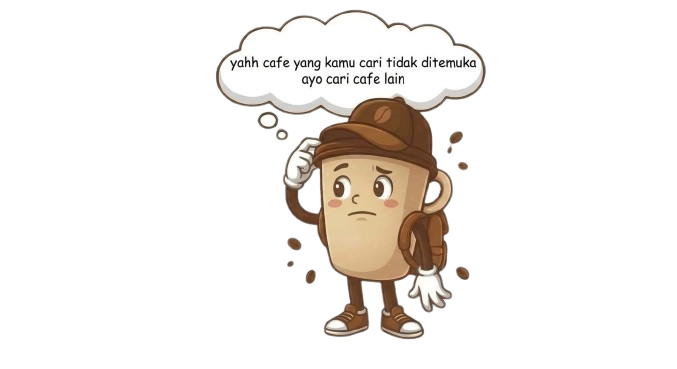
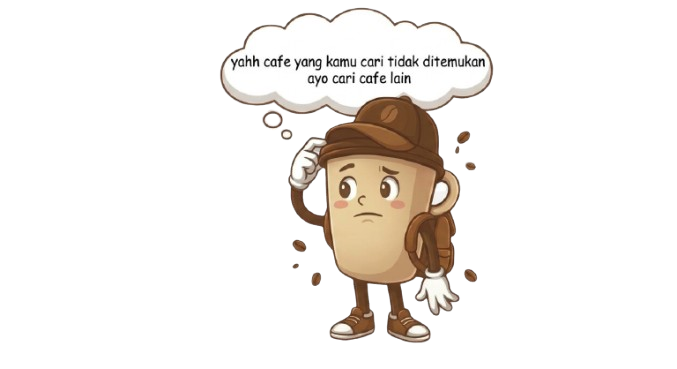
update

Changed region(s): [[0.3102, 0.0, 0.7445, 0.9539], [0.3722, 0.0596, 0.4343, 0.0894]]

diff --git a/lib/widgets/mascot_empty.dart b/lib/widgets/mascot_empty.dart
@@ -1,64 +1,31 @@
 import 'package:flutter/material.dart';
 
 // ============================================
-// MASKOT EMPTY STATE — reusable widget
-// Bisa custom gambar per halaman
+// MASKOT EMPTY STATE — statis, tanpa animasi
 // ============================================
-class MascotEmpty extends StatefulWidget {
+class MascotEmpty extends StatelessWidget {
   final String imagePath;
   final double width;
 
   const MascotEmpty({
     super.key,
     required this.imagePath,
-    this.width = 180,
+    this.width = 200,
   });
 
   @override
-  State<MascotEmpty> createState() => _MascotEmptyState();
-}
-
-class _MascotEmptyState extends State<MascotEmpty>
-    with SingleTickerProviderStateMixin {
-  late final AnimationController _bobController;
-
-  @override
-  void initState() {
-    super.initState();
-    _bobController = AnimationController(
-      vsync: this,
-      duration: const Duration(milliseconds: 1600),
-    )..repeat(reverse: true);
-  }
-
-  @override
-  void dispose() {
-    _bobController.dispose();
-    super.dispose();
-  }
-
-  @override
   Widget build(BuildContext context) {
-    return AnimatedBuilder(
-      animation: _bobController,
-      builder: (context, _) {
-        // Bob naik-turun halus
-        final bob = _bobController.value * 10 - 5;
-
-        return Transform.translate(
-          offset: Offset(0, bob),
-          child: Image.asset(
-            widget.imagePath,
-            width: widget.width,
-            fit: BoxFit.contain,
-            errorBuilder: (context, error, stackTrace) => Icon(
-              Icons.image_not_supported_outlined,
-              size: widget.width * 0.5,
-              color: Colors.grey,
-            ),
-          ),
-        );
-      },
+    return Center(
+      child: Image.asset(
+        imagePath,
+        width: width,
+        fit: BoxFit.contain,
+        errorBuilder: (context, error, stackTrace) => Icon(
+          Icons.image_not_supported_outlined,
+          size: width * 0.5,
+          color: Colors.grey,
+        ),
+      ),
     );
   }
 }

diff --git a/lib/pages/register_page.dart b/lib/pages/register_page.dart
@@ -1,6 +1,6 @@
 import 'package:flutter/material.dart';
 import 'package:shared_preferences/shared_preferences.dart';
-import 'loading_page.dart'; // ← ✅ GANTI dari main_page.dart
+import 'main_page.dart';
 import 'login_page.dart';
 
 class RegisterPage extends StatefulWidget {
@@ -34,7 +34,6 @@ class _RegisterPageState extends State<RegisterPage> {
     super.dispose();
   }
 
-  // ===== SNACKBAR HELPER =====
   void _showSnackBar({
     required IconData icon,
     required String message,
@@ -80,7 +79,7 @@ class _RegisterPageState extends State<RegisterPage> {
   }
 
   // ============================================
-  // HANDLE REGISTER → LANGSUNG KE LOADING PAGE
+  // HANDLE REGISTER → LANGSUNG KE MAINPAGE
   // ============================================
   Future<void> _handleRegister() async {
     FocusScope.of(context).unfocus();
@@ -101,10 +100,10 @@ class _RegisterPageState extends State<RegisterPage> {
 
     if (!mounted) return;
 
-    // ← ✅ Navigate ke Loading Page
+    // ← ✅ LANGSUNG KE MAINPAGE (skip loading)
     Navigator.pushAndRemoveUntil(
       context,
-      MaterialPageRoute(builder: (_) => const LoadingPage()),
+      MaterialPageRoute(builder: (_) => const MainPage()),
           (route) => false,
     );
   }
@@ -130,7 +129,7 @@ class _RegisterPageState extends State<RegisterPage> {
   }
 
   // ============================================
-  // DESKTOP — SPLIT SCREEN
+  // DESKTOP
   // ============================================
   Widget _buildDesktopLayout() {
     return Row(
@@ -668,9 +667,6 @@ class _RegisterPageState extends State<RegisterPage> {
     );
   }
 
-  // ============================================
-  // INPUT FIELD BUILDER
-  // ============================================
   Widget _buildInputField({
     required TextEditingController controller,
     required String hint,

diff --git a/lib/pages/login_page.dart b/lib/pages/login_page.dart
@@ -1,6 +1,6 @@
 import 'package:flutter/material.dart';
 import 'package:shared_preferences/shared_preferences.dart';
-import 'loading_page.dart';
+import 'main_page.dart';
 import 'register_page.dart';
 
 class LoginPage extends StatefulWidget {
@@ -33,7 +33,7 @@ class _LoginPageState extends State<LoginPage> {
   }
 
   // ============================================
-  // HANDLE LOGIN → LANGSUNG KE LOADING PAGE
+  // HANDLE LOGIN → LANGSUNG KE MAINPAGE
   // ============================================
   Future<void> _handleLogin() async {
     FocusScope.of(context).unfocus();
@@ -57,10 +57,10 @@ class _LoginPageState extends State<LoginPage> {
 
     if (!mounted) return;
 
-    // Navigate ke Loading Page
+    // ← ✅ LANGSUNG KE MAINPAGE (skip loading)
     Navigator.pushReplacement(
       context,
-      MaterialPageRoute(builder: (context) => const LoadingPage()),
+      MaterialPageRoute(builder: (context) => const MainPage()),
     );
   }
 

diff --git a/lib/pages/search_page.dart b/lib/pages/search_page.dart
@@ -148,14 +148,15 @@ class _SearchPageState extends State<SearchPage> {
         padding: const EdgeInsets.symmetric(horizontal: 40),
         child: Column(
           mainAxisAlignment: MainAxisAlignment.center,
+          mainAxisSize: MainAxisSize.min,
           children: [
-            // ← ✅ MASKOT PENELUSURAN
+            // ← ✅ MASKOT PENELUSURAN (perbesar 280)
             const MascotEmpty(
               imagePath: 'assets/images/mascot/mascot_penelusuran.png',
-              width: 290,
+              width: 300,
             ),
 
-            const SizedBox(height: 24),
+            const SizedBox(height: 28),
 
             const Text(
               'Kafe tidak ditemukan',

diff --git a/lib/pages/order_history_page.dart b/lib/pages/order_history_page.dart
@@ -92,14 +92,15 @@ class OrderHistoryPage extends StatelessWidget {
         padding: const EdgeInsets.symmetric(horizontal: 40),
         child: Column(
           mainAxisAlignment: MainAxisAlignment.center,
+          mainAxisSize: MainAxisSize.min,
           children: [
-            // ← ✅ MASKOT RIWAYAT
+            // ← ✅ MASKOT RIWAYAT (perbesar 280)
             const MascotEmpty(
               imagePath: 'assets/images/mascot/mascot_riwayat.png',
-              width: 290,
+              width: 280,
             ),
 
-            const SizedBox(height: 24),
+            const SizedBox(height: 28),
 
             const Text(
               'Belum Ada Riwayat',
